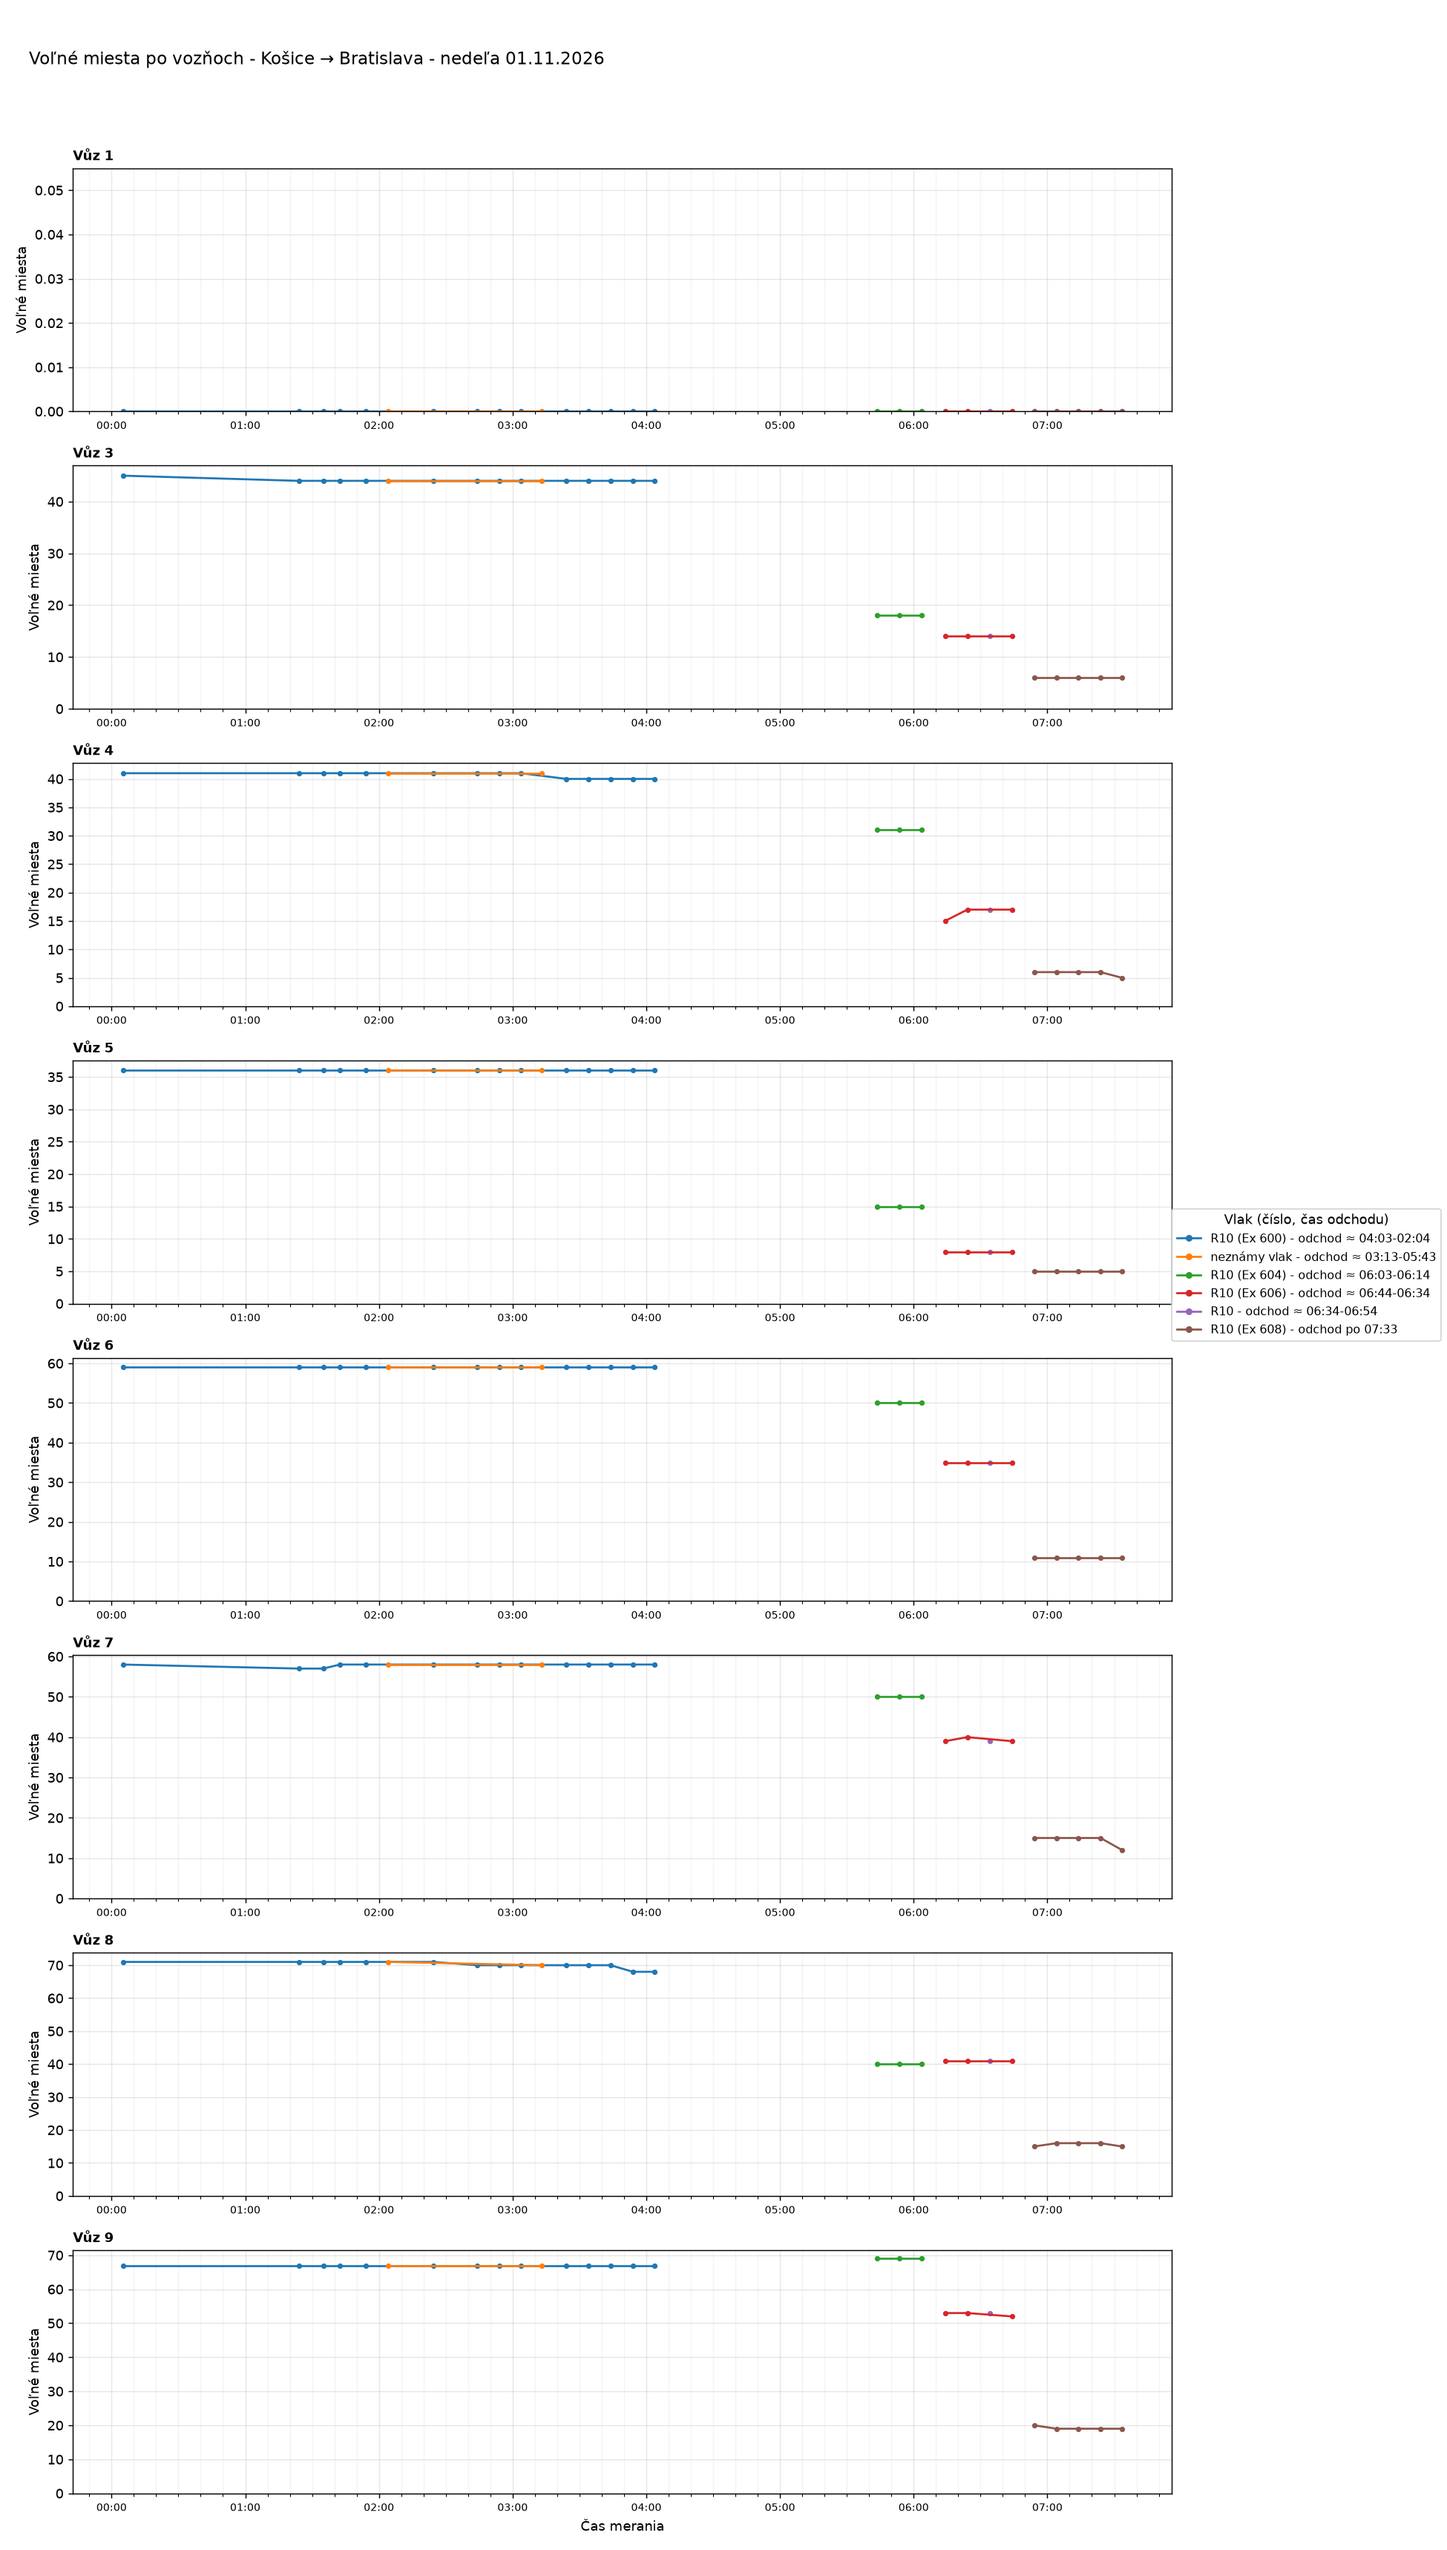
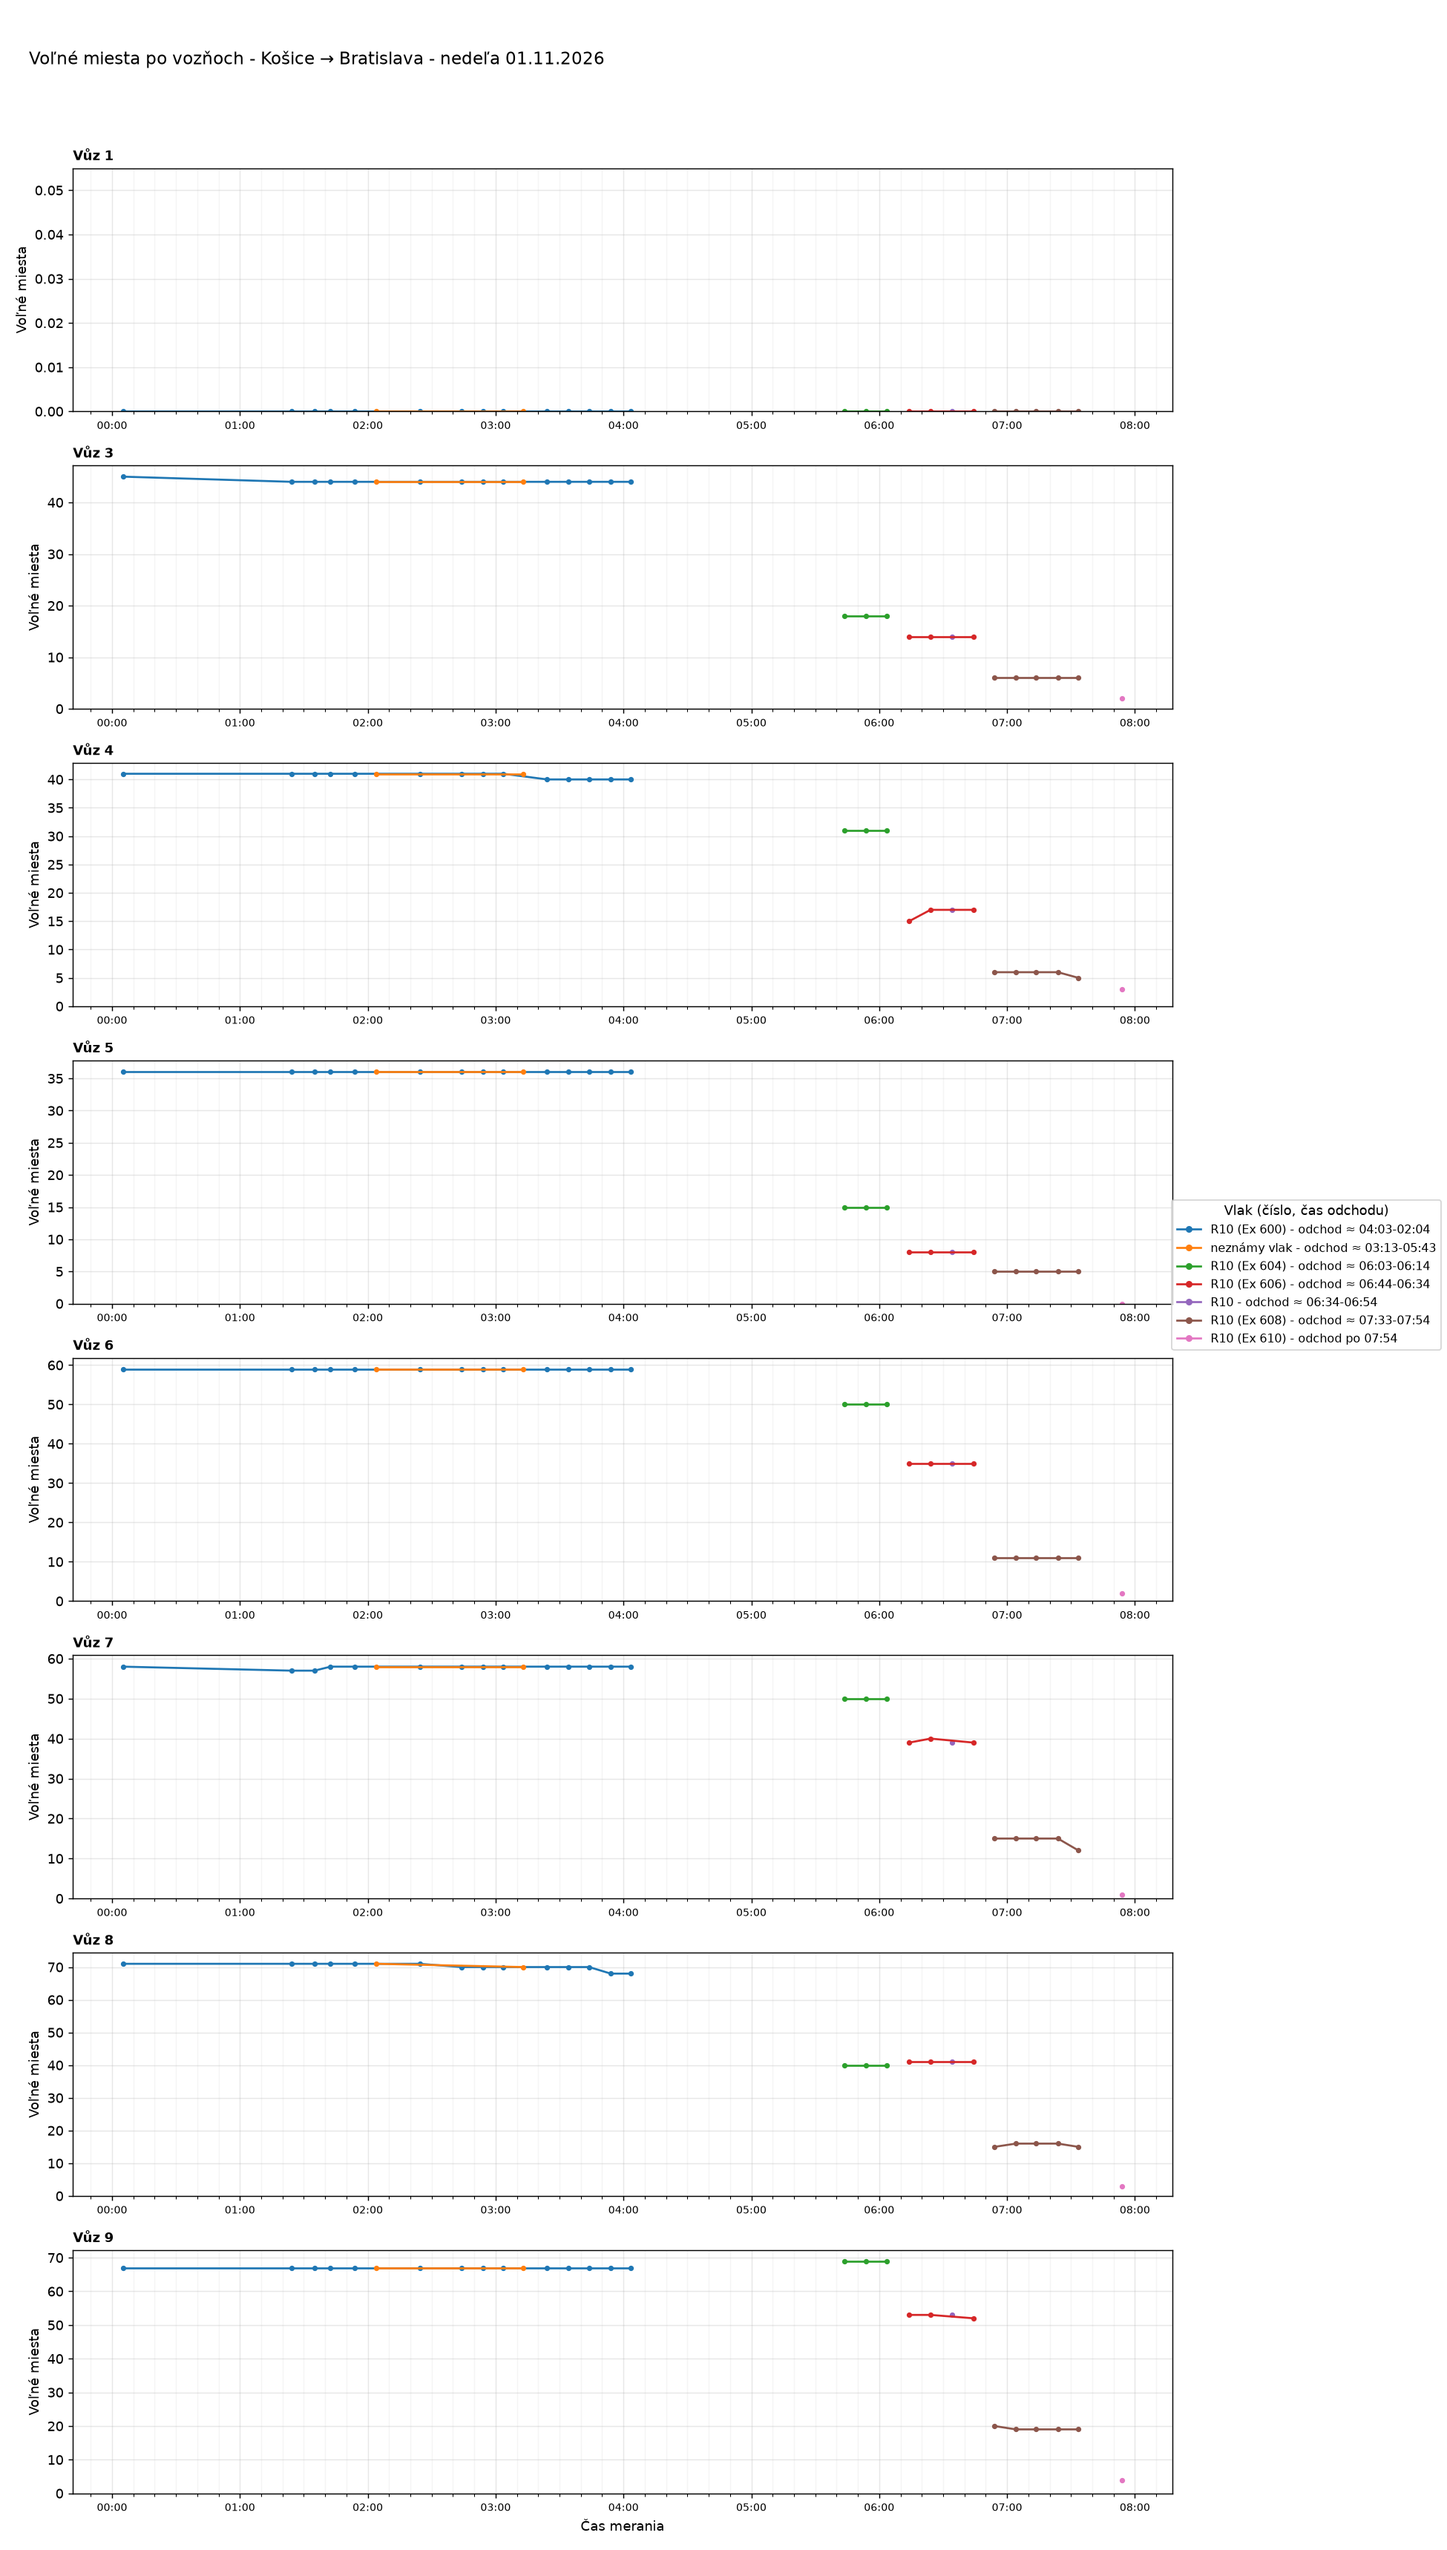
Aktualizácia grafov 2026-11-01 08:39

diff --git a/index.html b/index.html
@@ -37,7 +37,7 @@ details.trasa>summary{cursor:pointer;font-weight:600;font-size:1.1rem;padding:8p
 <body>
 <main>
 <h1>Voľné miesta vo vlakoch</h1>
-<p class="muted">Posledné meranie: 01.11.2026 07:33 ·
+<p class="muted">Posledné meranie: 01.11.2026 07:54 ·
 <a href="data/obsadenost_data.csv">stiahnuť dáta (CSV)</a></p>
 <nav class="nav"><a href="#suhrn">Súhrn</a><a href="#statistiky">Štatistiky</a><a href="#historia">História grafov</a></nav>
 
@@ -46,10 +46,10 @@ details.trasa>summary{cursor:pointer;font-weight:600;font-size:1.1rem;padding:8p
 <div class="tablewrap"><table>
 <thead><tr><th>Deň</th><th>Trasa</th><th>Meraní</th><th>Vlakov</th><th>Čas meraní</th></tr></thead>
 <tbody>
-<tr><td><a href="#dBA-VR-2026-11-01">nedeľa 01.11.2026</a></td><td>Bratislava → Vrútky</td><td>32</td><td>4</td><td>00:01-07:21</td></tr>
+<tr><td><a href="#dBA-VR-2026-11-01">nedeľa 01.11.2026</a></td><td>Bratislava → Vrútky</td><td>34</td><td>4</td><td>00:01-07:51</td></tr>
 <tr><td><a href="#dVR-BA-2026-11-01">nedeľa 01.11.2026</a></td><td>Vrútky → Bratislava</td><td>23</td><td>2</td><td>02:42-07:02</td></tr>
-<tr><td><a href="#dBA-KE-2026-11-01">nedeľa 01.11.2026</a></td><td>Bratislava → Košice</td><td>29</td><td>4</td><td>00:12-07:32</td></tr>
-<tr><td><a href="#dKE-BA-2026-11-01">nedeľa 01.11.2026</a></td><td>Košice → Bratislava</td><td>28</td><td>6</td><td>00:05-07:33</td></tr>
+<tr><td><a href="#dBA-KE-2026-11-01">nedeľa 01.11.2026</a></td><td>Bratislava → Košice</td><td>31</td><td>4</td><td>00:12-07:53</td></tr>
+<tr><td><a href="#dKE-BA-2026-11-01">nedeľa 01.11.2026</a></td><td>Košice → Bratislava</td><td>29</td><td>7</td><td>00:05-07:54</td></tr>
 <tr><td><a href="#dBA-VR-2026-10-31">sobota 31.10.2026</a></td><td>Bratislava → Vrútky</td><td>60</td><td>12</td><td>00:21-23:11</td></tr>
 <tr><td><a href="#dVR-BA-2026-10-31">sobota 31.10.2026</a></td><td>Vrútky → Bratislava</td><td>52</td><td>13</td><td>02:42-20:42</td></tr>
 <tr><td><a href="#dBA-KE-2026-10-31">sobota 31.10.2026</a></td><td>Bratislava → Košice</td><td>56</td><td>11</td><td>00:23-23:03</td></tr>
